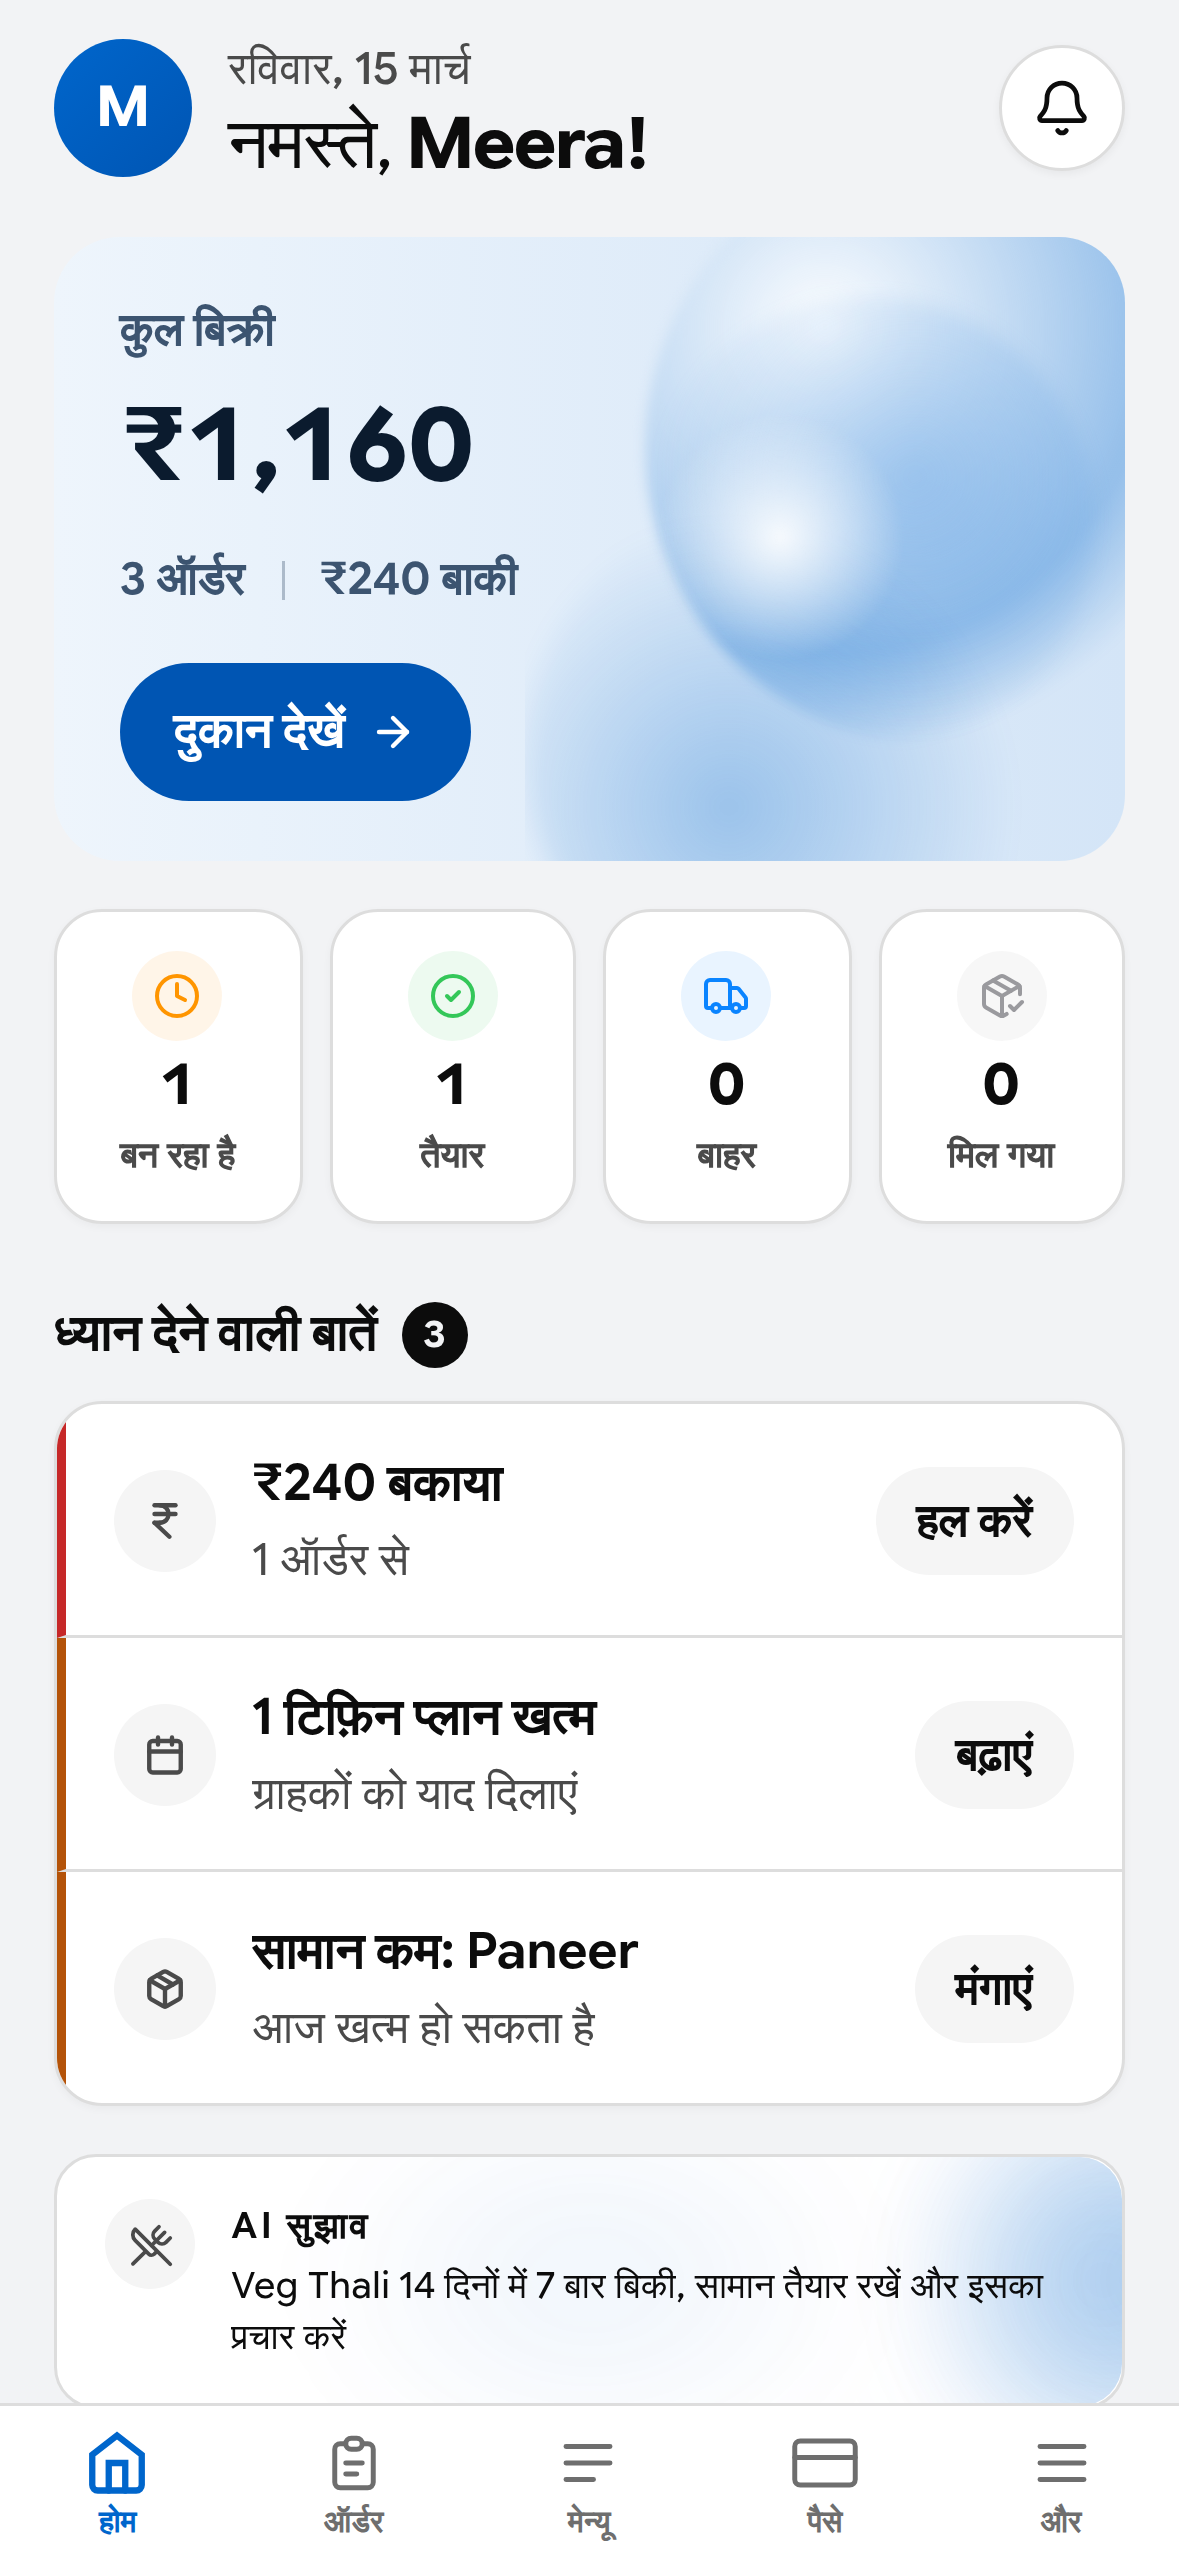
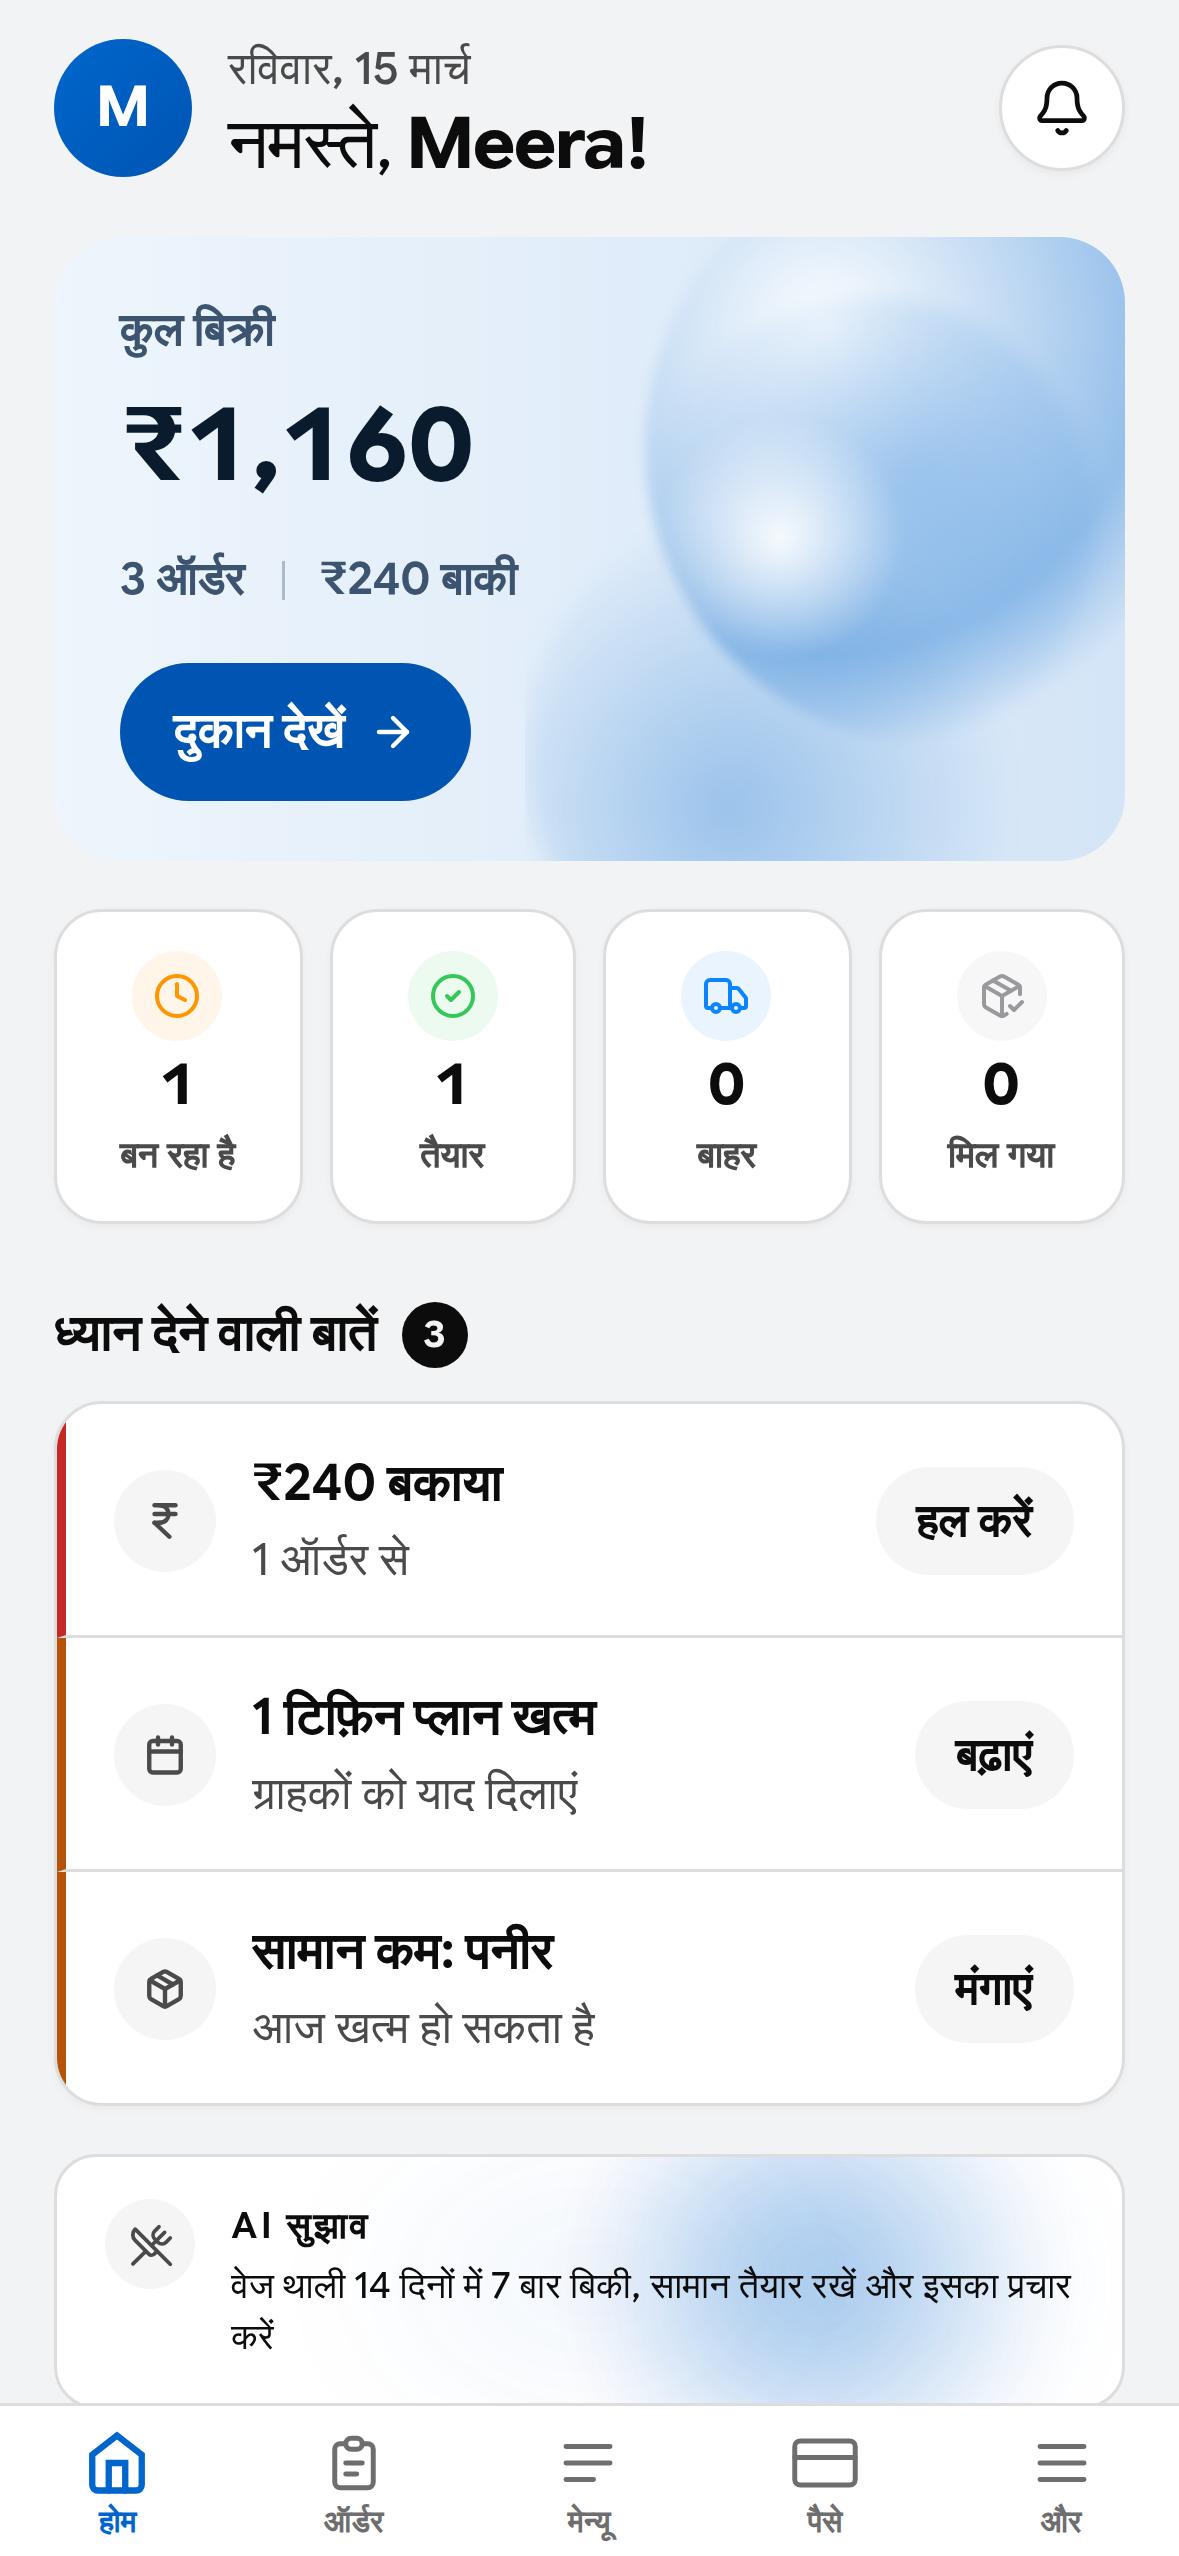
Screenshots: blue customer storefront, Hindi dish names on Hindi Home (#5)
The customer order page now uses the app's blue and off-white, so the
storefront screenshot is retaken from the current build (demo kitchen,
no Netlify address bar). The Hindi Home shot shows dish and stock names
in Devanagari, as a Hindi-speaking owner would type them.

Claude-Session: https://claude.ai/code/session_01TQBBUweRNTSFuCZG8AKnme

Changed region(s): [[0.1832, 0.8345, 0.9771, 0.9581], [0.3969, 0.7418, 0.5496, 0.7727]]

diff --git a/README.md b/README.md
@@ -255,7 +255,7 @@ The claim here is not that I hand-wrote the TypeScript. It is product judgment, 
 
 Most screenshots are of the current production build, captured automatically against a **demo kitchen with fictional data** ("Annapurna Home Kitchen", made-up customers and placeholder phone numbers), so nothing needs blurring. They show the real app exactly as it renders; only the data is invented.
 
-Two are from the live beta kitchen, taken on a real phone with its permission: the **customer storefront** and the **menu**, because the demo kitchen has no dish photos. Names, the kitchen's identity and payment details in those two are **redacted to protect the privacy of real people**.
+The **menu** is from the live beta kitchen, taken on a real phone with its permission, because the demo kitchen has no dish photos. Names, the kitchen's identity and payment details in it are **redacted to protect the privacy of real people**. The **customer storefront** is the current build running against the demo kitchen, with a few dish photos borrowed from the live kitchen.
 
 ---
 
